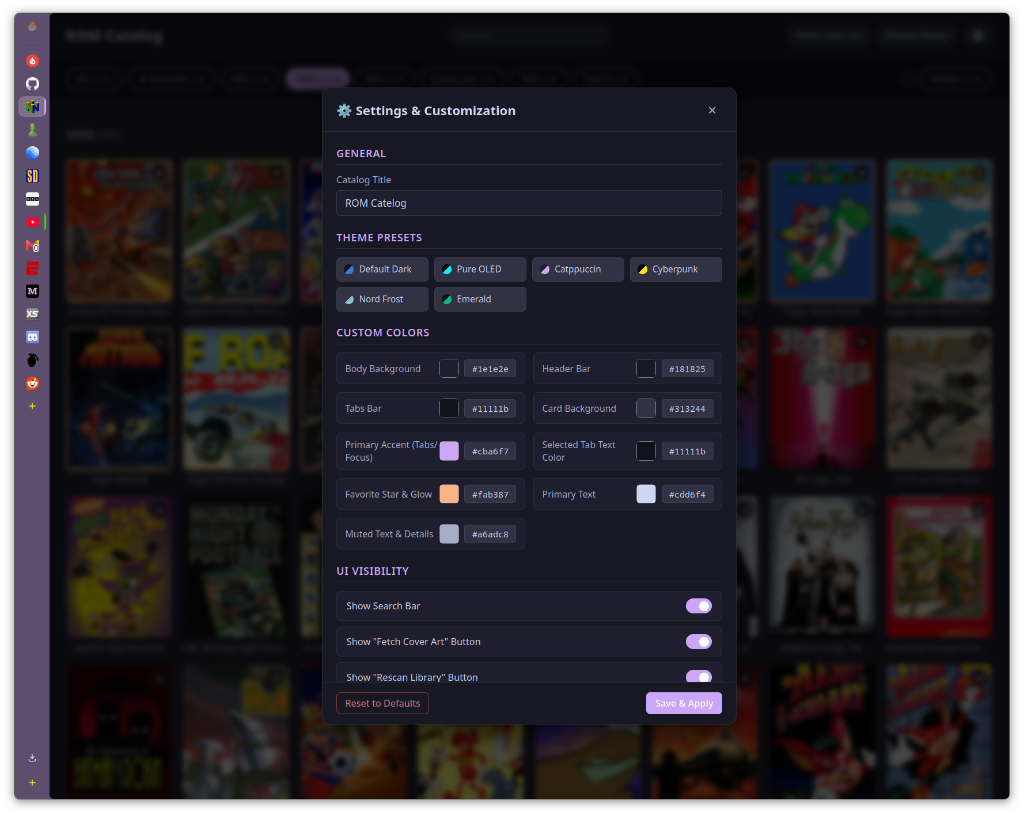
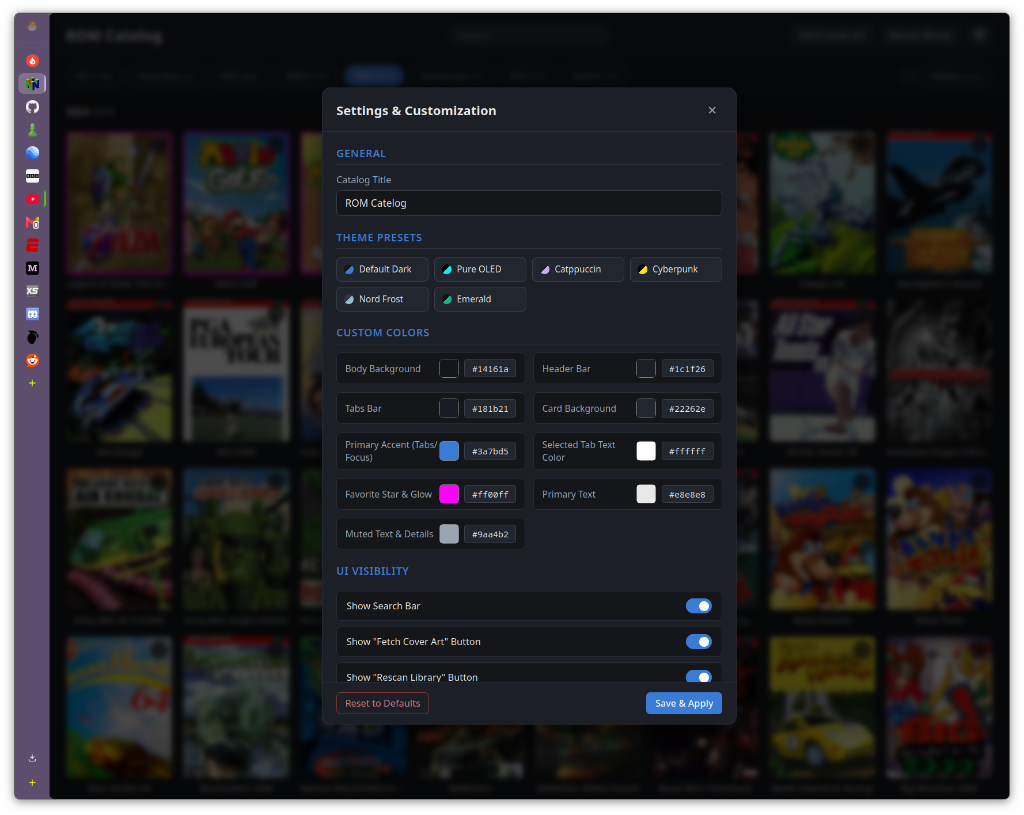
Update repository screenshots and README with new UI captures

diff --git a/README.md b/README.md
@@ -12,14 +12,14 @@ A fast, lightweight, self-hosted web catalog and remote launcher for your retro 
 
 ## Screenshots
 
-### Main Dashboard (Catppuccin Theme)
+### Main Dashboard (Favorites & Custom Glowing Borders)
 ![ROM Catalog Dashboard](screenshots/catalog.jpg)
 
 ### Settings & Customization Modal
 ![Settings Modal](screenshots/settings.png)
 
-### Nord Frost Theme
-![Nord Theme](screenshots/nord.jpg)
+### Custom Palette (Catppuccin Theme)
+![Custom Theme](screenshots/theme.jpg)
 
 ---
 
@@ -252,9 +252,9 @@ Emulator-Web-Catelog/
 ├── library.json             # Cached library metadata for instant page load performance
 ├── .gitignore               # Ignore cache, logs, virtual environments, and scraped covers
 ├── screenshots/
-│   ├── catalog.jpg          # Application dashboard screenshot (Catppuccin theme)
+│   ├── catalog.jpg          # Application dashboard screenshot (Default theme with glowing borders)
 │   ├── settings.png         # Settings and customization modal screenshot
-│   └── nord.jpg             # Application dashboard screenshot (Nord Frost theme)
+│   └── theme.jpg            # Application dashboard screenshot (Catppuccin theme)
 ├── static/
 │   ├── favicon.png          # Web browser favicon
 │   ├── covers/              # Local cache directory for game boxart
